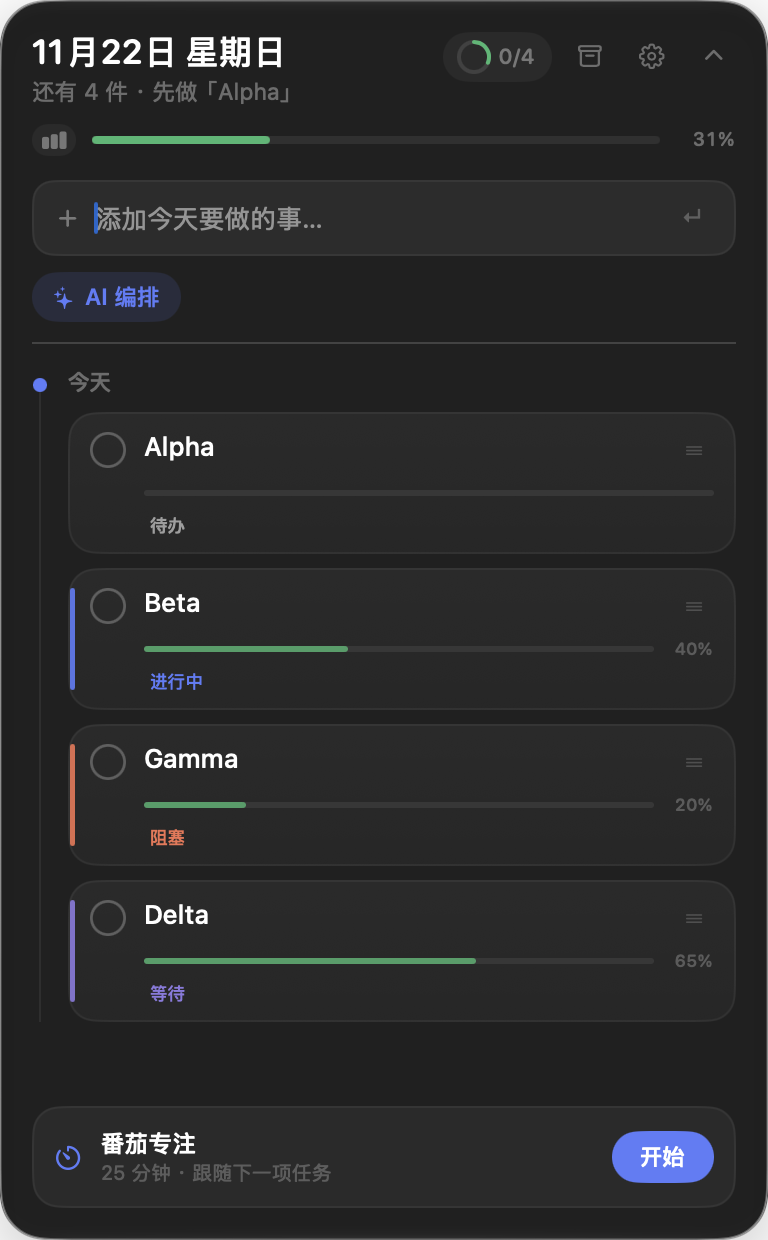
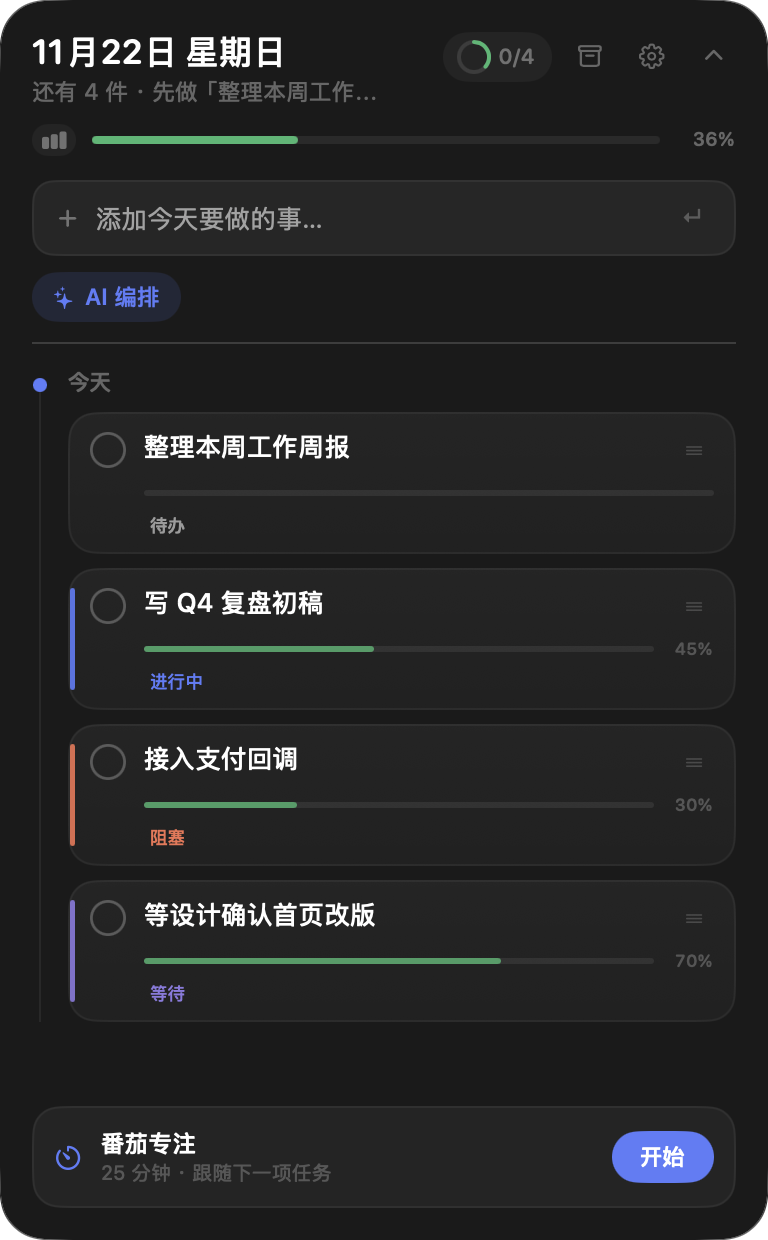
Use realistic Chinese tasks in README demo screenshot

diff --git a/TaskBoard/App/AppDelegate.swift b/TaskBoard/App/AppDelegate.swift
@@ -155,10 +155,10 @@ final class AppDelegate: NSObject, NSApplicationDelegate {
     private func seedDemoTasks() {
         let day = Calendar.current.startOfDay(for: Date())
         let seeds: [(title: String, status: TaskStatus, progress: Int)] = [
-            ("Alpha", .todo, 0),
-            ("Beta", .inProgress, 40),
-            ("Gamma", .blocked, 20),
-            ("Delta", .waiting, 65),
+            ("整理本周工作周报", .todo, 0),
+            ("写 Q4 复盘初稿", .inProgress, 45),
+            ("接入支付回调", .blocked, 30),
+            ("等设计确认首页改版", .waiting, 70),
         ]
         for seed in seeds {
             model.store.add(title: seed.title, day: day)
